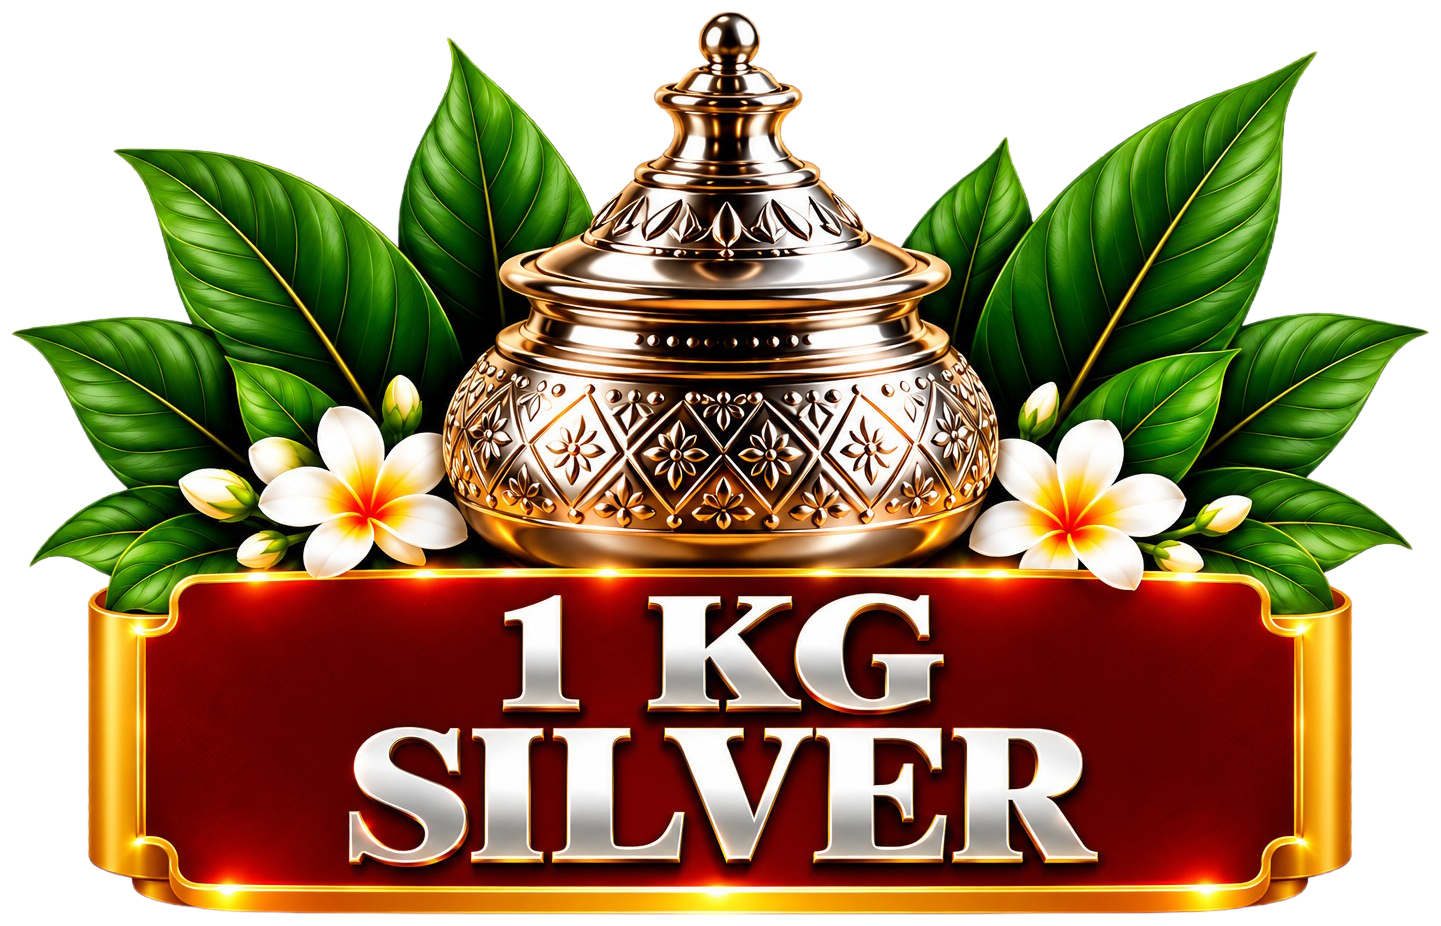
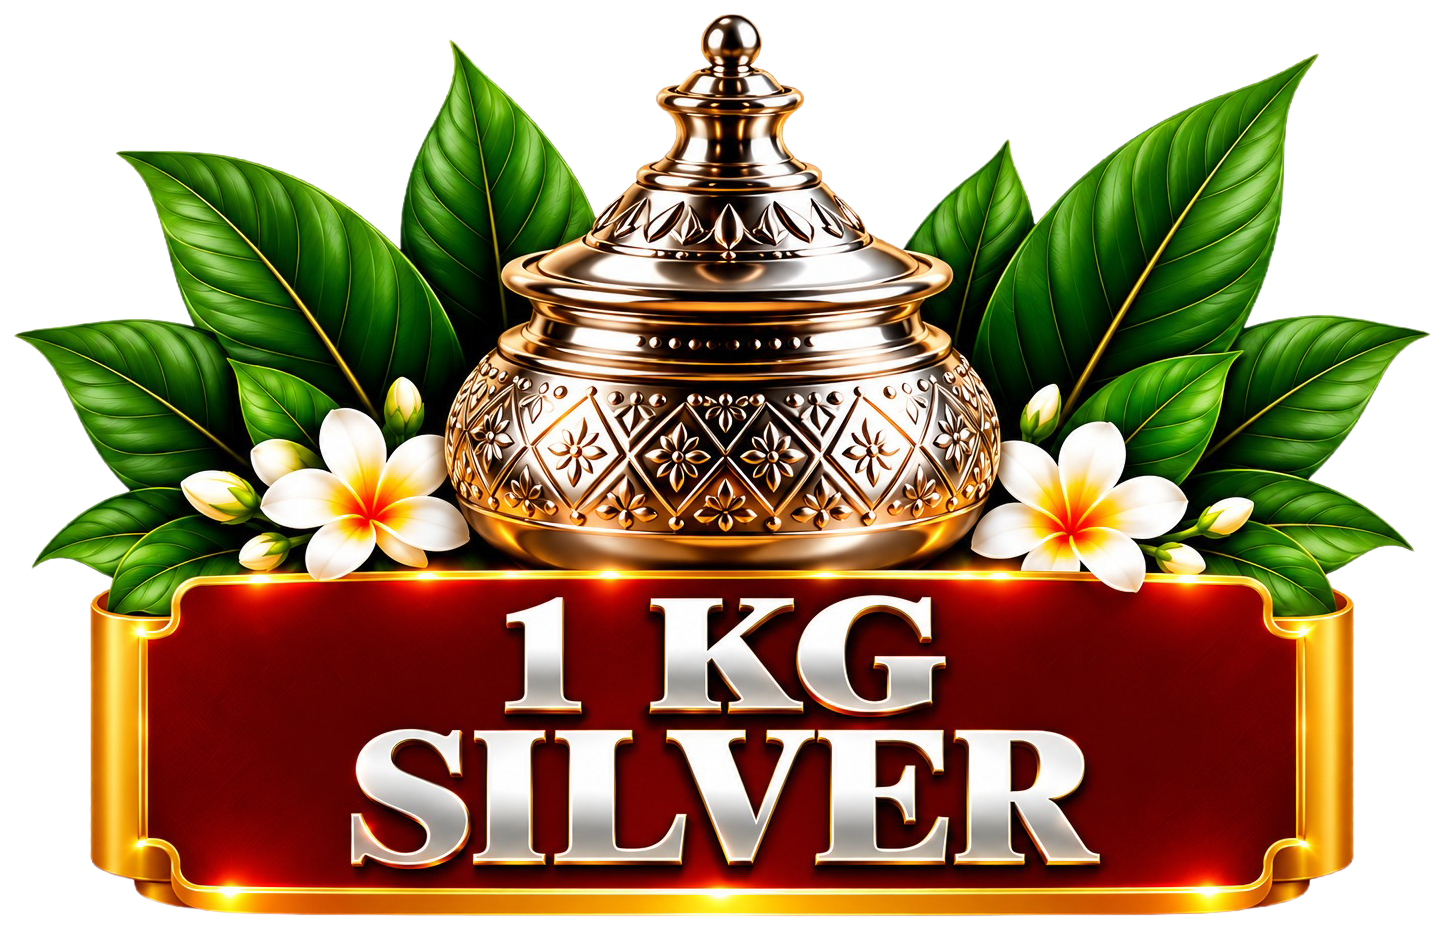
feat(festive): update 3D Gold and Silver reward assets from client PSDs and enhance card layout

diff --git a/components/FestiveScheme.tsx b/components/FestiveScheme.tsx
@@ -112,7 +112,7 @@ export const FestiveScheme: React.FC<FestiveSchemeProps> = ({ onOpenEnquiry }) =
             {/* Visual Festive Gift Card */}
             <div className="p-5 sm:p-6 flex flex-col items-center justify-center text-center bg-gradient-to-b from-amber-50/70 via-white to-amber-50/40 relative">
               {/* Gold Ornament Visual Container */}
-              <div className="relative w-full h-48 sm:h-52 flex items-center justify-center my-1 group-hover:scale-105 transition-transform duration-300">
+              <div className="relative w-full h-52 sm:h-56 flex items-center justify-center my-1 group-hover:scale-105 transition-transform duration-300">
                 <div className="absolute inset-0 bg-gradient-to-tr from-amber-300/30 to-yellow-200/20 rounded-full blur-2xl animate-pulse" />
                 <Image
                   src="/images/festive/festive-50g-gold.webp"
@@ -175,7 +175,7 @@ export const FestiveScheme: React.FC<FestiveSchemeProps> = ({ onOpenEnquiry }) =
             {/* Visual Festive Gift Card */}
             <div className="p-5 sm:p-6 flex flex-col items-center justify-center text-center bg-gradient-to-b from-emerald-50/70 via-white to-emerald-50/40 relative">
               {/* Silver Ornaments Visual Container */}
-              <div className="relative w-full h-48 sm:h-52 flex items-center justify-center my-1 group-hover:scale-105 transition-transform duration-300">
+              <div className="relative w-full h-52 sm:h-56 flex items-center justify-center my-1 group-hover:scale-105 transition-transform duration-300">
                 <div className="absolute inset-0 bg-gradient-to-tr from-emerald-300/20 to-teal-200/20 rounded-full blur-2xl animate-pulse" />
                 <Image
                   src="/images/festive/festive-1-5kg-silver.webp"
@@ -237,7 +237,7 @@ export const FestiveScheme: React.FC<FestiveSchemeProps> = ({ onOpenEnquiry }) =
             {/* Visual Festive Gift Card */}
             <div className="p-5 sm:p-6 flex flex-col items-center justify-center text-center bg-gradient-to-b from-slate-50/70 via-white to-slate-50/40 relative">
               {/* Silver Kalash Visual Container */}
-              <div className="relative w-full h-48 sm:h-52 flex items-center justify-center my-1 group-hover:scale-105 transition-transform duration-300">
+              <div className="relative w-full h-52 sm:h-56 flex items-center justify-center my-1 group-hover:scale-105 transition-transform duration-300">
                 <div className="absolute inset-0 bg-gradient-to-tr from-slate-300/30 to-zinc-200/20 rounded-full blur-2xl animate-pulse" />
                 <Image
                   src="/images/festive/festive-1kg-silver.webp"

diff --git a/MEMORY.md b/MEMORY.md
@@ -234,5 +234,5 @@ The Aurora Hills is a premium real estate landing page and management portal for
 - `6d3f2ea`: docs: document live production verification, multi-project isolation, and keyword calibration.
 - `c2f5964`: docs: record Oct 16 conversion milestone and Oct 17 live negative keyword deployment.
 - `7f9f0a7`: docs: record Oct 19 audit milestone, dimension keywords, and negative keyword updates in strategy.
-- `7700dd3`: fix(analytics): bulletproof gtag event queueing and explicit window.gtag binding.
-- feat(festive): upgrade festive scheme cards with high-res 3D gold and silver visual assets.
+- `2cc7f74`: feat(festive): upgrade festive scheme cards with high-res 3D gold and silver visual assets.
+- `HEAD`: feat(festive): re-export 3D assets directly from client PSDs with enhanced card height framing.
